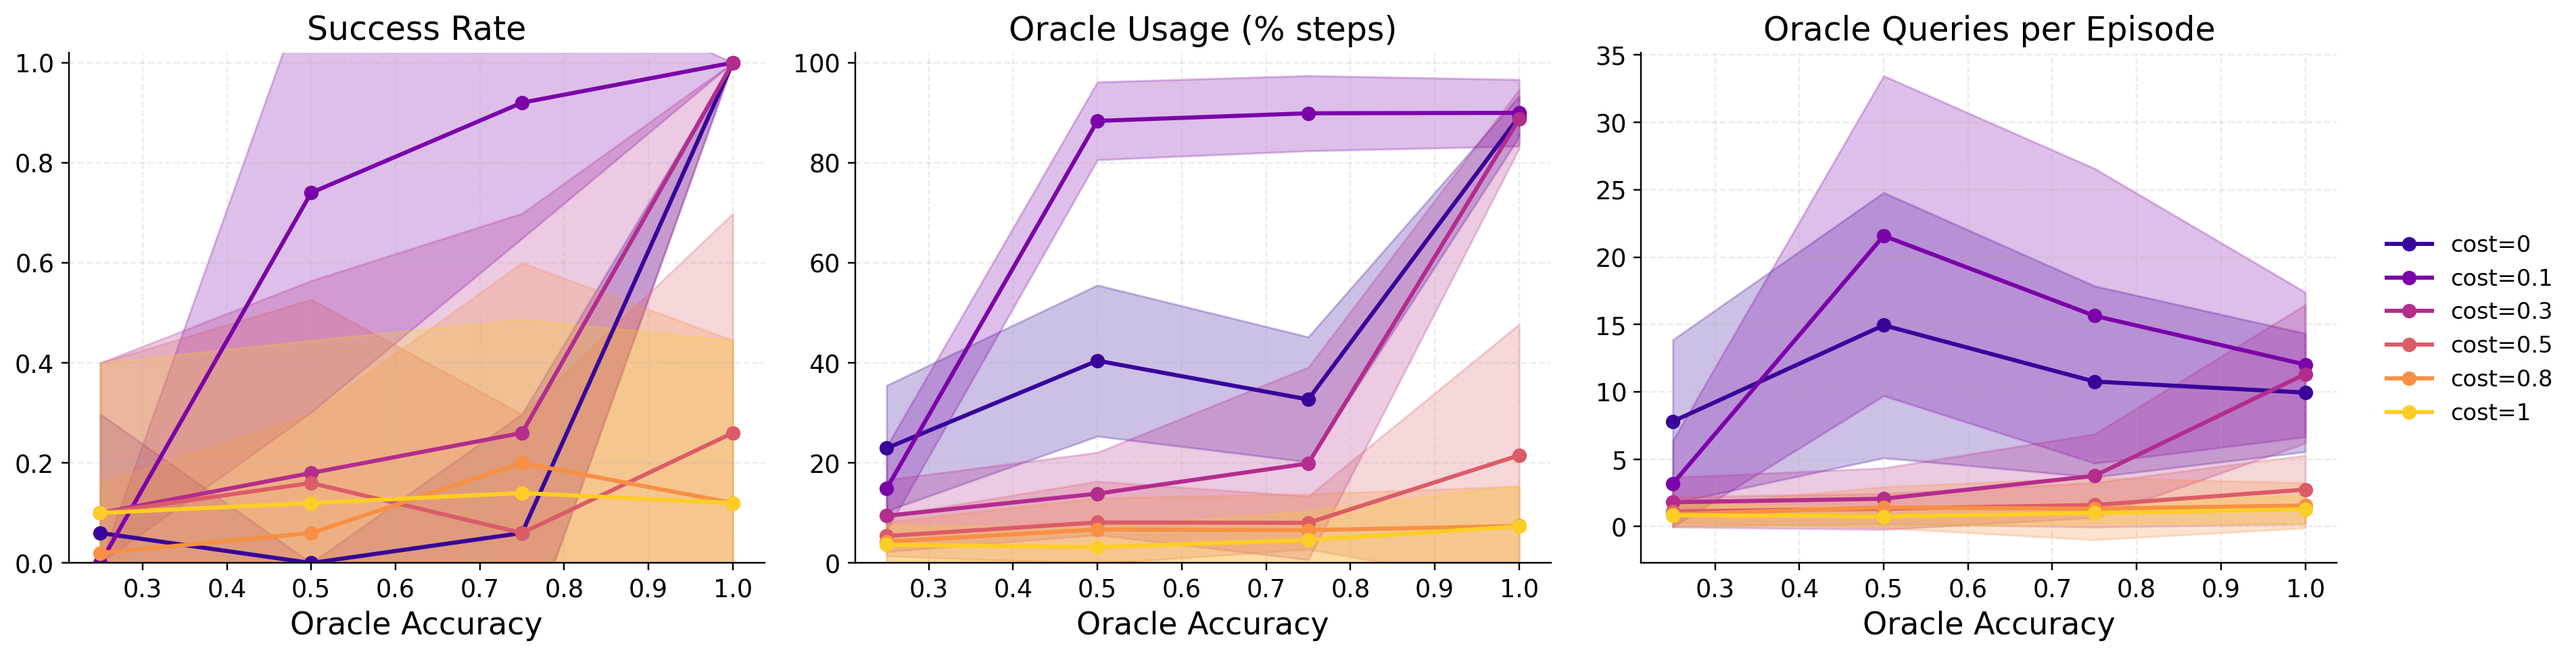
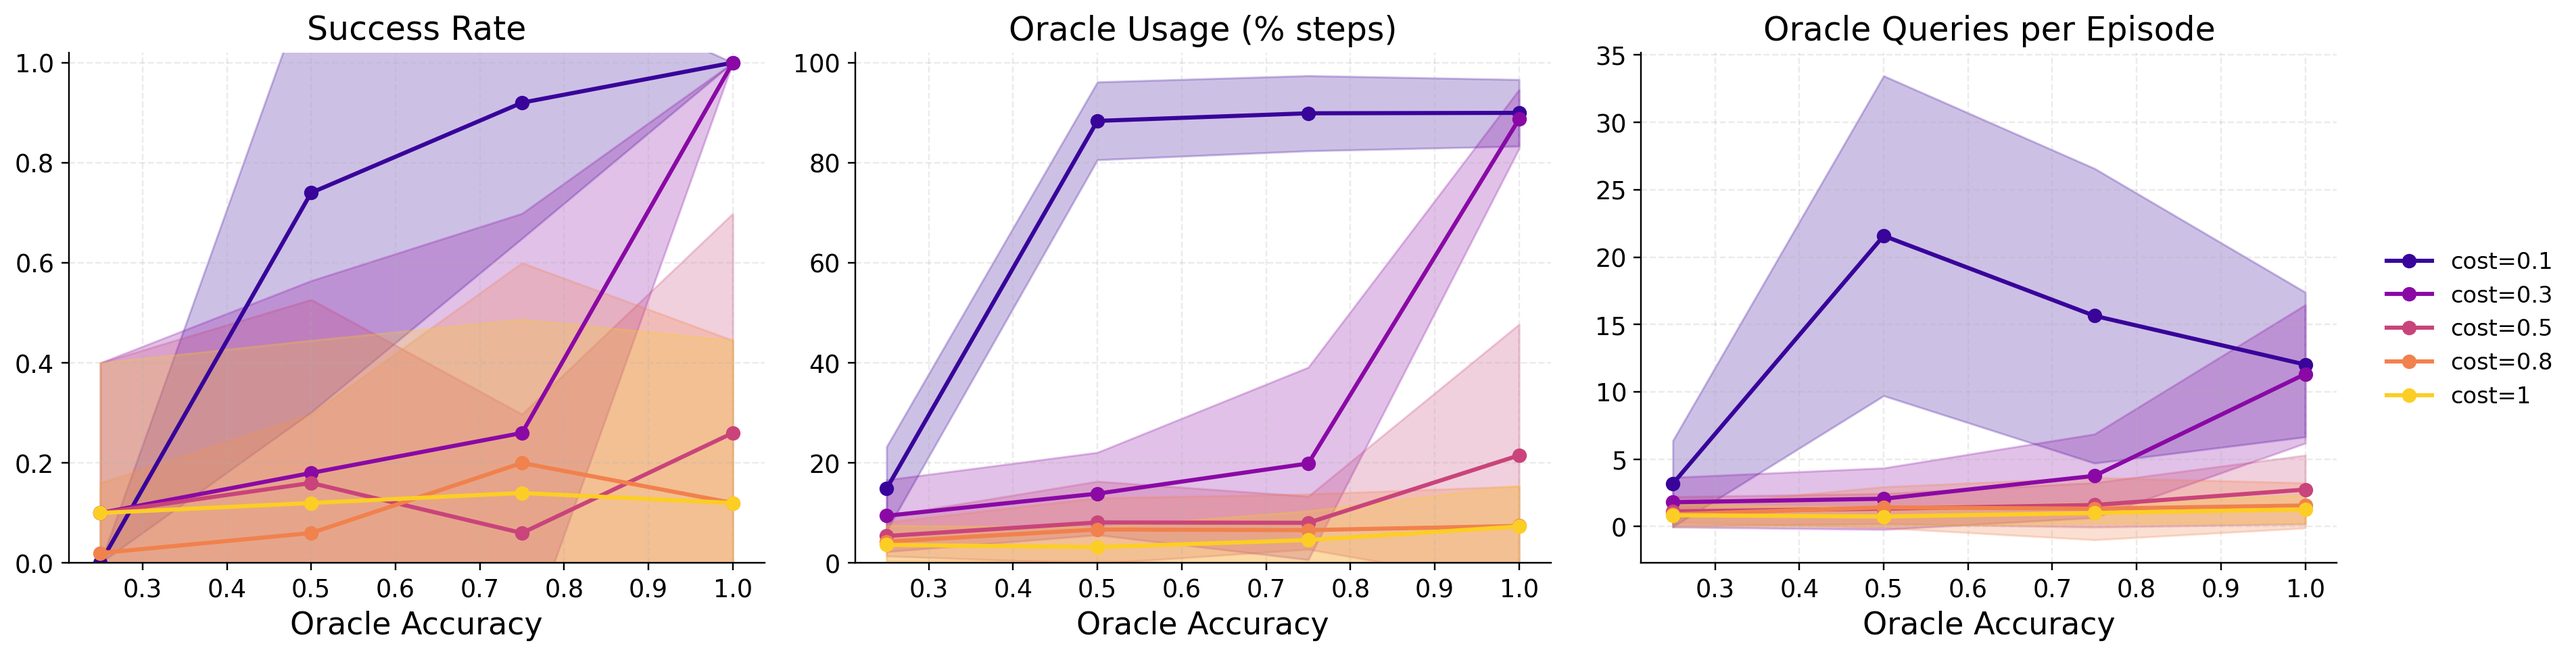
fixes to oracle

diff --git a/gym_sokoban/plot_results.py b/gym_sokoban/plot_results.py
@@ -305,12 +305,18 @@ def plot_cost_curves(
 
     baseline = baseline_run(records)
     colors = plt.cm.plasma(np.linspace(0.08, 0.9, len(unique_costs)))
-    fig, axes = plt.subplots(1, 2, figsize=(13, 4.8), sharex=True)
+    fig, axes = plt.subplots(1, 3, figsize=(18, 4.8), sharex=True)
+
+    plot_cols = ["success", "guided_pct", "queries_per_ep"]
 
     for color, cost_val in zip(colors, unique_costs):
         group = cost_groups[cost_val]
         label = f"cost={label_float(cost_val)}"
-        for col, ax in zip(["success", "guided_pct"], axes):
+        for col, ax in zip(plot_cols, axes):
+            # skip queries_per_ep if no run in this group has the column
+            has_col = any(col in r.metrics.columns for r in group)
+            if not has_col:
+                continue
             if shade and len(group) > 1:
                 steps, mean, std = smooth_metric_band(group, col, window)
                 if steps is None:
@@ -326,6 +332,8 @@ def plot_cost_curves(
                 )
             else:
                 run = max(group, key=lambda r: r.max_step)
+                if col not in run.metrics.columns:
+                    continue
                 s = smooth_metric(run.metrics, col, window)
                 ax.plot(s["global_step"], s["value"], color=color, linewidth=2.4, label=label)
 
@@ -348,17 +356,21 @@ def plot_cost_curves(
     axes[1].set_ylabel("")
     axes[1].set_ylim(-2, 102)
 
+    axes[2].set_title("Oracle Queries per Episode")
+    axes[2].set_ylabel("")
+
     for ax in axes:
         finish_axis(ax)
 
     handles, labels = axes[0].get_legend_handles_labels()
-    h1, l1 = axes[1].get_legend_handles_labels()
-    seen = set(labels)
-    for h, l in zip(h1, l1):
-        if l not in seen:
-            handles.append(h)
-            labels.append(l)
-            seen.add(l)
+    for ax in axes[1:]:
+        h1, l1 = ax.get_legend_handles_labels()
+        seen = set(labels)
+        for h, l in zip(h1, l1):
+            if l not in seen:
+                handles.append(h)
+                labels.append(l)
+                seen.add(l)
     fig.legend(handles, labels, loc="center left", bbox_to_anchor=(1.0, 0.5),
                frameon=False, fontsize=11)
 
@@ -382,6 +394,7 @@ def plot_accuracy_lines(
         r for r in records
         if not r.no_oracle and not r.is_linear_cost
         and r.oracle_accuracy is not None and r.fixed_cost is not None
+        and r.fixed_cost > 0
     ]
     if not all_runs:
         print("No accuracy-ablation runs found")
@@ -544,38 +557,54 @@ def plot_transfer(out_dir: Path, min_timesteps: int = 450_000):
         print("No FixedTarget transfer results found — skipping transfer plot")
         return
 
+    # Exclude linear-cost runs and cost=0 runs.
+    if "oracle_cost_final" in df.columns:
+        df = df[df["oracle_cost_final"].isna()].copy()
+    df = df[df["oracle_cost"] > 0].copy()
+
     costs = sorted(df["oracle_cost"].dropna().unique())
     palette = plt.cm.plasma(np.linspace(0.08, 0.9, len(costs)))
     cost_color = dict(zip(costs, palette))
 
-    fig, ax = plt.subplots(1, 1, figsize=(6, 4.8))
+    fig, axes = plt.subplots(1, 3, figsize=(16, 4.8))
+
+    metrics_cfg = [
+        ("success_rate",      "success_std",         "Success Rate",               (-.02, 1.02)),
+        ("oracle_usage_pct",  "oracle_usage_pct_std", "Oracle Usage (% steps)",     (-2, 102)),
+        ("queries_per_ep",    "queries_per_ep_std",  "Oracle Queries per Episode", None),
+    ]
 
     for cost_val in costs:
         rows = df[np.isclose(df["oracle_cost"], cost_val)].sort_values("oracle_accuracy")
         if rows.empty:
             continue
         color = cost_color[cost_val]
-        ax.plot(rows["oracle_accuracy"], rows["success_rate"],
-                color=color, linewidth=2, marker="o", label=f"cost={cost_val:g}")
-        ax.fill_between(
-            rows["oracle_accuracy"],
-            rows["success_rate"] - rows["success_std"],
-            rows["success_rate"] + rows["success_std"],
-            color=color, alpha=0.2,
-        )
+        label = f"cost={cost_val:g}"
+        for ax, (col, std_col, _, _) in zip(axes, metrics_cfg):
+            ax.plot(rows["oracle_accuracy"], rows[col],
+                    color=color, linewidth=2, marker="o", label=label)
+            if std_col and std_col in rows.columns:
+                ax.fill_between(
+                    rows["oracle_accuracy"],
+                    rows[col] - rows[std_col],
+                    rows[col] + rows[std_col],
+                    color=color, alpha=0.2,
+                )
 
-    ax.set_title("FixedTarget-Sokoban-v2 (zero-shot transfer)")
-    ax.set_xlabel("Oracle Accuracy")
-    ax.set_ylabel("Success Rate")
-    ax.set_ylim(-0.02, 1.02)
-    ax.grid(True, alpha=0.25, linestyle="--")
-    ax.spines["top"].set_visible(False)
-    ax.spines["right"].set_visible(False)
+    for ax, (_, _, title, ylim) in zip(axes, metrics_cfg):
+        ax.set_title(title)
+        ax.set_xlabel("Oracle Accuracy")
+        ax.set_ylabel("")
+        if ylim:
+            ax.set_ylim(*ylim)
+        ax.grid(True, alpha=0.25, linestyle="--")
+        ax.spines["top"].set_visible(False)
+        ax.spines["right"].set_visible(False)
 
-    handles, labels = ax.get_legend_handles_labels()
+    handles, labels = axes[0].get_legend_handles_labels()
     fig.legend(handles, labels, loc="center left", bbox_to_anchor=(1.0, 0.5),
                frameon=False, fontsize=11)
-    fig.suptitle("Zero-Shot Transfer: Success Rate by Oracle Accuracy & Cost", fontweight="bold")
+    fig.suptitle("Zero-Shot Transfer to FixedTarget-Sokoban-v2", fontweight="bold")
     fig.tight_layout()
     out_path = out_dir / "transfer_results.png"
     fig.savefig(out_path, dpi=220, bbox_inches="tight")

diff --git a/gym_sokoban/eval_gif.py b/gym_sokoban/eval_gif.py
@@ -214,11 +214,12 @@ def run_episode(
             frames.append(frame)
 
         if terminated or truncated:
-            status = "SUCCESS" if info.get("success", False) else "TIMEOUT"
+            success = info.get("success", False)
+            status = "SUCCESS" if success else "TIMEOUT/FAIL"
             print(f"  → {status} | steps={step}  return={total_ret:.3f}  queries={n_queries}")
             break
 
-    return frames, total_ret, step
+    return frames, total_ret, step, success
 
 
 # ── Main ──────────────────────────────────────────────────────────────────────
@@ -231,10 +232,12 @@ def parse_args():
     p.add_argument("--oracle-cost", type=float, default=0.0)
     p.add_argument("--oracle-accuracy", type=float, default=1.0)
     p.add_argument("--max-oracle-queries", type=int, default=None)
-    p.add_argument("--max-episode-steps", type=int, default=50)
+    p.add_argument("--max-episode-steps", type=int, default=120)
     p.add_argument("--obs-size", type=int, default=56)
     p.add_argument("--hidden-dim", type=int, default=256)
     p.add_argument("--n-episodes", type=int, default=5)
+    p.add_argument("--success-only", action="store_true",
+                   help="Keep re-rolling seeds until n-episodes successful episodes are collected.")
     p.add_argument("--stochastic", action="store_true")
     p.add_argument("--scale", type=int, default=4, help="Upscale factor for board rendering")
     p.add_argument("--fps", type=int, default=4)
@@ -282,13 +285,24 @@ def main():
     print(f"Device: {device}  obs={obs_shape}  n_actions={n_actions}")
 
     all_frames: list[np.ndarray] = []
-    for ep in range(args.n_episodes):
-        print(f"\n── Episode {ep + 1}/{args.n_episodes} ──")
-        frames, ret, steps = run_episode(
-            env, model, device, seed=args.seed + ep,
+    collected = 0
+    attempt = 0
+    target = args.n_episodes
+    while collected < target:
+        seed = args.seed + attempt
+        attempt += 1
+        print(f"\n── Episode {collected + 1}/{target}  (seed={seed}) ──")
+        frames, ret, steps, success = run_episode(
+            env, model, device, seed=seed,
             stochastic=args.stochastic, scale=args.scale,
         )
-        # Black separator between episodes
+        if args.success_only and not success:
+            print("  (skipped — not a success)")
+            if attempt > target * 20:
+                print("WARNING: gave up finding enough successes after many attempts.")
+                break
+            continue
+        collected += 1
         if frames:
             separator = [np.zeros_like(frames[0])] * 3
             all_frames += frames + separator

diff --git a/gym_sokoban/bfs_oracle.py b/gym_sokoban/bfs_oracle.py
@@ -154,7 +154,10 @@ def _get_oracle_action_standard(env_unwrapped):
 # ── Fixed-target BFS ──────────────────────────────────────────────────────────
 
 def is_fixed_target_env(env_unwrapped) -> bool:
-    return hasattr(env_unwrapped, 'box_mapping')
+    # Both standard and fixed-target envs have box_mapping, so we check the
+    # class name instead. FixedTarget variants inherit from FixedTargetsSokobanEnv.
+    return 'FixedTarget' in type(env_unwrapped).__name__ or \
+           any('FixedTarget' in c.__name__ for c in type(env_unwrapped).__mro__)
 
 
 def _extract_ft_state(env_unwrapped):

diff --git a/gym_sokoban/eval_transfer_all.py b/gym_sokoban/eval_transfer_all.py
@@ -193,6 +193,7 @@ def evaluate(
         "success_rate": float(np.mean(successes)),
         "success_std": float(np.std(successes)),
         "oracle_usage_pct": float(np.mean(guided_pcts)),
+        "oracle_usage_pct_std": float(np.std(guided_pcts)),
         "queries_per_ep": float(np.mean(queries)),
         "queries_per_ep_std": float(np.std(queries)),
         "n_episodes": n_episodes,

diff --git a/gym_sokoban/WEBSITE.md b/gym_sokoban/WEBSITE.md
@@ -1,0 +1,130 @@
+# Sokoban Website Section — Handover Notes
+
+Target section: `#exp-sokoban` in `CS503-VALET-Website/index.html`
+Already stubbed in the HTML — search for `id="exp-sokoban"` to find it.
+
+---
+
+## Assets
+
+### Figures (copy to `static/images/`)
+| File | Status | Description |
+|---|---|---|
+| `gym_sokoban/figures/final/cost_curves_acc100.png` | ✅ ready | Success rate + oracle usage + queries/ep vs steps, all costs at acc=1.0 (3-panel) |
+| `gym_sokoban/figures/final/accuracy_lines.png` | ✅ ready | Success + oracle usage + queries/ep vs oracle accuracy, lines by cost (3-panel) |
+| `gym_sokoban/figures/final/linear_cost_schedule.png` | ✅ ready | 2×3 panel: cost schedule, success, reward, oracle usage, queries/ep, success/query |
+| `gym_sokoban/figures/final/transfer_results.png` | ⚠ needs re-run | 3-panel: success + oracle usage + queries/ep vs accuracy, lines by cost, FixedTarget only |
+
+To regenerate all: `python gym_sokoban/plot_results.py`
+Transfer results also need: `python -u gym_sokoban/eval_transfer_all.py` first (takes ~30min on CPU).
+
+### GIFs (copy to `static/gifs/sokoban/`)
+The interactive 6-button picker in the HTML expects exactly these filenames:
+| Filename | Button label | Status |
+|---|---|---|
+| `baseline.gif` | Baseline | ⏳ pending — `baseline_minigridcnn_500k` checkpoint, `--no-oracle` |
+| `oracle_free.gif` | Free Oracle | ⏳ pending — `oracle_acc100_cost0_500k` |
+| `oracle_cost01.gif` | Cost=0.1 | ⏳ pending — `oracle_acc100_cost01_500k` |
+| `oracle_cost05.gif` | Cost=0.5 | ⏳ pending — `oracle_acc100_cost05_500k` |
+| `oracle_cost08.gif` | Cost=0.8 | ⏳ pending — `oracle_acc100_cost08_500k` |
+| `oracle_linear.gif` | Linear | ⏳ pending — `oracle_acc100_cost_linear_0to2_3M` |
+
+Run: `.\gen_eval_gifs.ps1` (fill in checkpoint paths first — see `HANDOVER.md` § Visualisation GIFs).
+Export to website: `.\export_to_website.ps1`
+
+Budget GIFs use a 4-channel model checkpoint (incompatible with 3-channel ones).
+
+---
+
+## Proposed Section Structure
+
+The existing stub is thin. Replace it with this structure:
+
+### 1. Environment intro (2–3 sentences)
+Sokoban is harder than MiniGrid: actions are irreversible, dead-ends are reachable after
+a few bad pushes, and solving a puzzle requires multi-step planning. We built a BFS oracle
+that finds the optimal action given full board state.
+
+### 2. Interactive GIF picker  ← MOVE THIS FIRST (already in the HTML, just reorder)
+The 6-button picker is already wired in JavaScript. Put it right after the intro paragraph,
+before any training curves. CLIPasso3D style: show the agent behaving first, explain after.
+
+Layout: `is-one-third` column for the picker+gif, `is-two-thirds` for cost_curves_acc100.png.
+This is already in the HTML — just reorder so picker comes before the figures.
+
+### 3. Cost ablation
+Figure: `cost_curves_acc100.png` (full width or right-column next to the gif picker)
+Caption: "Training curves at oracle accuracy=1.0 under varying query costs.
+Oracle-assisted agents converge faster; usage self-regulates as cost increases."
+
+### 4. Accuracy ablation
+Figure: `accuracy_lines.png` (full width)
+Caption: "Final metrics vs oracle accuracy, one line per cost. Below the accuracy threshold
+the agent stops querying entirely — the same threshold behavior seen in the MiniGrid noisy
+oracle ablation."
+Explicitly cross-link to `#exp-noisy` section.
+
+### 5. Linear cost schedule
+Figure: `linear_cost_schedule.png` (full width, it's a rich 2×3 panel)
+Caption: "Linearly increasing query cost (0→2 over 2M steps, 3M total). The agent bootstraps
+on cheap guidance early and internalizes the policy as querying becomes expensive."
+
+### 6. Zero-shot transfer
+Figure: `transfer_results.png`
+Caption: "Zero-shot transfer to FixedTarget-Sokoban-v2 (never seen during training).
+Performance tracks oracle accuracy — only policies trained with sufficient guidance quality
+transfer successfully."
+
+### 7. Budget-limited oracle (novel contribution)
+1–2 sentences explaining the 4th channel design: remaining budget encoded as a spatially-constant
+uint8 value so the CNN can condition on it. Show budget GIFs via the picker (already wired).
+Note: results are pending; if weak, frame as exploratory / future work.
+
+### 8. VLM note (1 sentence)
+"We did not evaluate a real VLM on Sokoban due to compute constraints; the noisy oracle
+ablation suggests a VLM would need >75% action accuracy to reliably help the agent."
+
+---
+
+## What's already in the HTML (don't duplicate)
+
+The current `#exp-sokoban` stub has:
+- The 6-button gif picker + sokoban-demo img + sokoban-caption p
+- `setSokobanGif()` JS function (at bottom of file, inside the closing script tag — search for it)
+- Placeholders for cost_curves_acc100.png, accuracy_lines.png, linear_cost_schedule.png
+
+The stub intro text ("To verify that VALET generalizes...") is fine, keep it.
+
+---
+
+## Key things NOT in the current stub that need adding
+
+1. Transfer results section (new subsection after linear schedule)
+2. Budget oracle subsection (new, after transfer)
+3. VLM note (1 sentence, end of section)
+4. Richer figure captions (current ones are 1 line, expand to 2–3)
+5. Cross-link to `#exp-noisy` from the accuracy ablation paragraph
+
+---
+
+## Layout patterns to follow (matching rest of page)
+
+```html
+<!-- Full-width figure -->
+<div class="has-text-centered mt-4 mb-2">
+  <img src="./static/images/FILENAME.png" style="width: 85%; border-radius: 4px;">
+  <p class="mt-2" style="font-size: 0.82em; color: #555;">
+    <strong>Figure N.</strong> Caption here.
+  </p>
+</div>
+
+<!-- Two-column: text left, figure right -->
+<div class="columns is-vcentered mt-4">
+  <div class="column is-half"> <p>...</p> </div>
+  <div class="column is-half has-text-centered">
+    <img src="..." style="width: 100%; border-radius: 4px;">
+  </div>
+</div>
+```
+
+Figure numbers in the Sokoban section start at 9 (Figures 1–8 are used by earlier sections).
